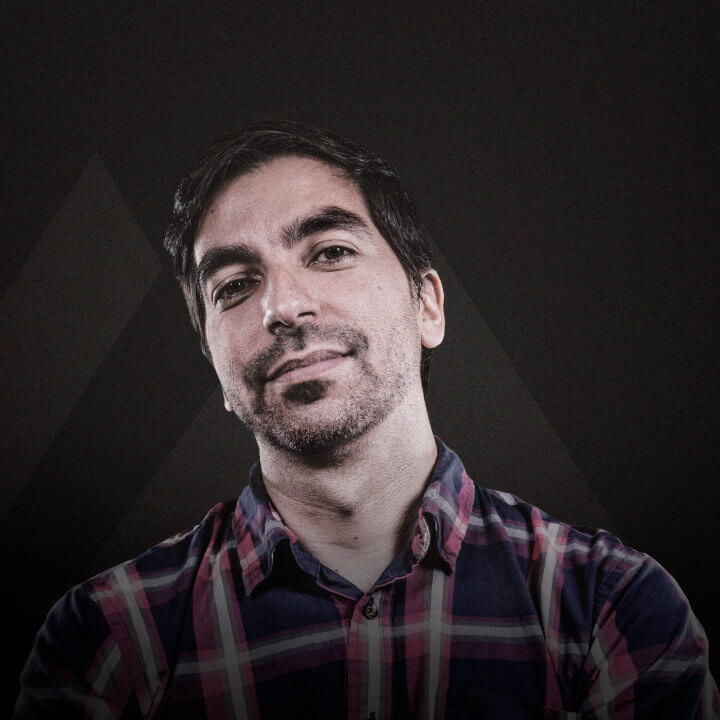
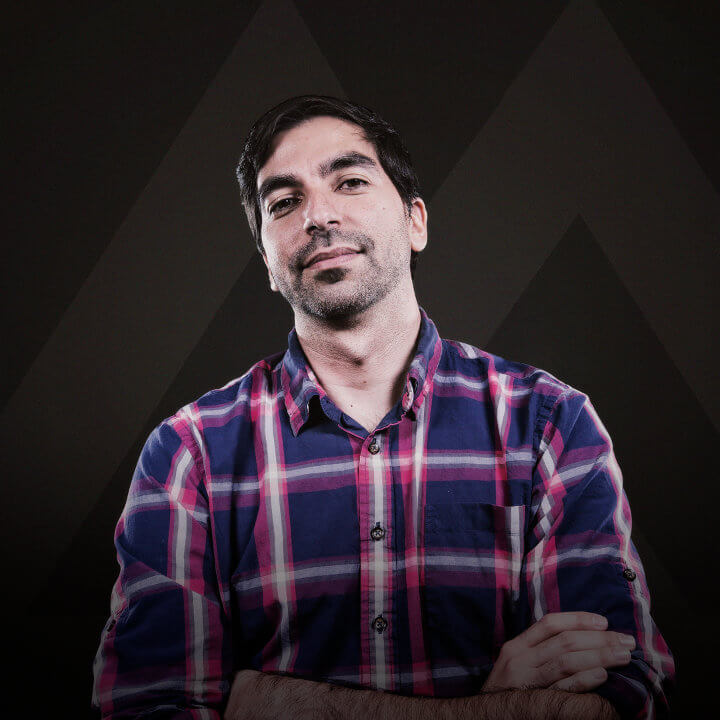
new images

diff --git a/dist/index.html b/dist/index.html
@@ -184,7 +184,9 @@
       <div class="work-detail section hidden" id="carhartt">
         <div class="content">
           <div class="contentWrapper">
-            <div class="projectLogo"><img src="./assets/images/cfm_logo.svg" alt=""></div>
+            <div class="projectLogo">
+              <!--img(src="./assets/images/cfm_logo.svg", alt="")-->
+            </div>
             <div class="copyWrapper">
               <h1 class="title">Augmented Vineyard</h1>
               <h2 class="client">Carhartt</h2>
@@ -193,7 +195,7 @@
                 
               </p>
             </div>
-            <div class="photoWrapper"><img class="workPhoto" src="./assets/images/placeholder_image.jpg" alt=""></div>
+            <div class="photoWrapper"><img class="workPhoto" src="./assets/images/carhartt_featured.jpg" alt=""><img class="workPhoto" src="./assets/images/carhartt_2.jpg" alt=""><img class="workPhoto" src="./assets/images/carhartt_3.jpg" alt=""><img class="workPhoto" src="./assets/images/carhartt_4.jpg" alt=""></div>
             <div class="goBack btn">
               <div class="container rotated">
                 <h2>Go Back</h2>
@@ -214,7 +216,7 @@
                 
               </p>
             </div>
-            <div class="photoWrapper"><img class="workPhoto" src="./assets/images/monarch_7.jpg" alt="">
+            <div class="photoWrapper"><img class="workPhoto" src="./assets/images/monarch_featured.jpg" alt="">
               <div class="pair"><img class="workPhoto half" src="./assets/images/monarch_1.jpg" alt=""><img class="workPhoto half" src="./assets/images/monarch_2.jpg" alt=""></div>
               <div class="pair"><img class="workPhoto half" src="./assets/images/monarch_4.jpg" alt=""><img class="workPhoto half" src="./assets/images/monarch_5.jpg" alt=""></div>
               <!--img.workPhoto(src="./assets/images/monarch_6.jpg", alt="")-->

diff --git a/dist/carhartt.html b/dist/carhartt.html
@@ -23,7 +23,9 @@
       <div class="work-detail section hidden" id="carhartt">
         <div class="content">
           <div class="contentWrapper">
-            <div class="projectLogo"><img src="./assets/images/cfm_logo.svg" alt=""></div>
+            <div class="projectLogo">
+              <!--img(src="./assets/images/cfm_logo.svg", alt="")-->
+            </div>
             <div class="copyWrapper">
               <h1 class="title">Augmented Vineyard</h1>
               <h2 class="client">Carhartt</h2>
@@ -32,7 +34,7 @@
                 
               </p>
             </div>
-            <div class="photoWrapper"><img class="workPhoto" src="./assets/images/placeholder_image.jpg" alt=""></div>
+            <div class="photoWrapper"><img class="workPhoto" src="./assets/images/carhartt_featured.jpg" alt=""><img class="workPhoto" src="./assets/images/carhartt_2.jpg" alt=""><img class="workPhoto" src="./assets/images/carhartt_3.jpg" alt=""><img class="workPhoto" src="./assets/images/carhartt_4.jpg" alt=""></div>
             <div class="goBack btn">
               <div class="container rotated">
                 <h2>Go Back</h2>

diff --git a/dist/monarch.html b/dist/monarch.html
@@ -32,7 +32,7 @@
                 
               </p>
             </div>
-            <div class="photoWrapper"><img class="workPhoto" src="./assets/images/monarch_7.jpg" alt="">
+            <div class="photoWrapper"><img class="workPhoto" src="./assets/images/monarch_featured.jpg" alt="">
               <div class="pair"><img class="workPhoto half" src="./assets/images/monarch_1.jpg" alt=""><img class="workPhoto half" src="./assets/images/monarch_2.jpg" alt=""></div>
               <div class="pair"><img class="workPhoto half" src="./assets/images/monarch_4.jpg" alt=""><img class="workPhoto half" src="./assets/images/monarch_5.jpg" alt=""></div>
               <!--img.workPhoto(src="./assets/images/monarch_6.jpg", alt="")-->

diff --git a/dist/css/style.css b/dist/css/style.css
@@ -197,9 +197,9 @@ body {
         body #work-section .bg-container .bg.one {
           background-image: url("../assets/images/cfm_featured.jpg"); }
         body #work-section .bg-container .bg.two {
-          background-image: url("../assets/images/monarch.jpg"); }
+          background-image: url("../assets/images/monarch_featured.jpg"); }
         body #work-section .bg-container .bg.three {
-          background-image: url("../assets/images/carhartt.jpg"); }
+          background-image: url("../assets/images/carhartt_featured.jpg"); }
     body #work-section .selector-container {
       width: 100%;
       height: 100%; }

diff --git a/src/sass/_work.scss b/src/sass/_work.scss
@@ -43,10 +43,10 @@
 				background-image: url('../assets/images/cfm_featured.jpg');
 			}
 			&.two{
-				background-image: url('../assets/images/monarch.jpg');
+				background-image: url('../assets/images/monarch_featured.jpg');
 			}
 			&.three{
-				background-image: url('../assets/images/carhartt.jpg');
+				background-image: url('../assets/images/carhartt_featured.jpg');
 			}
 		}
 	}
